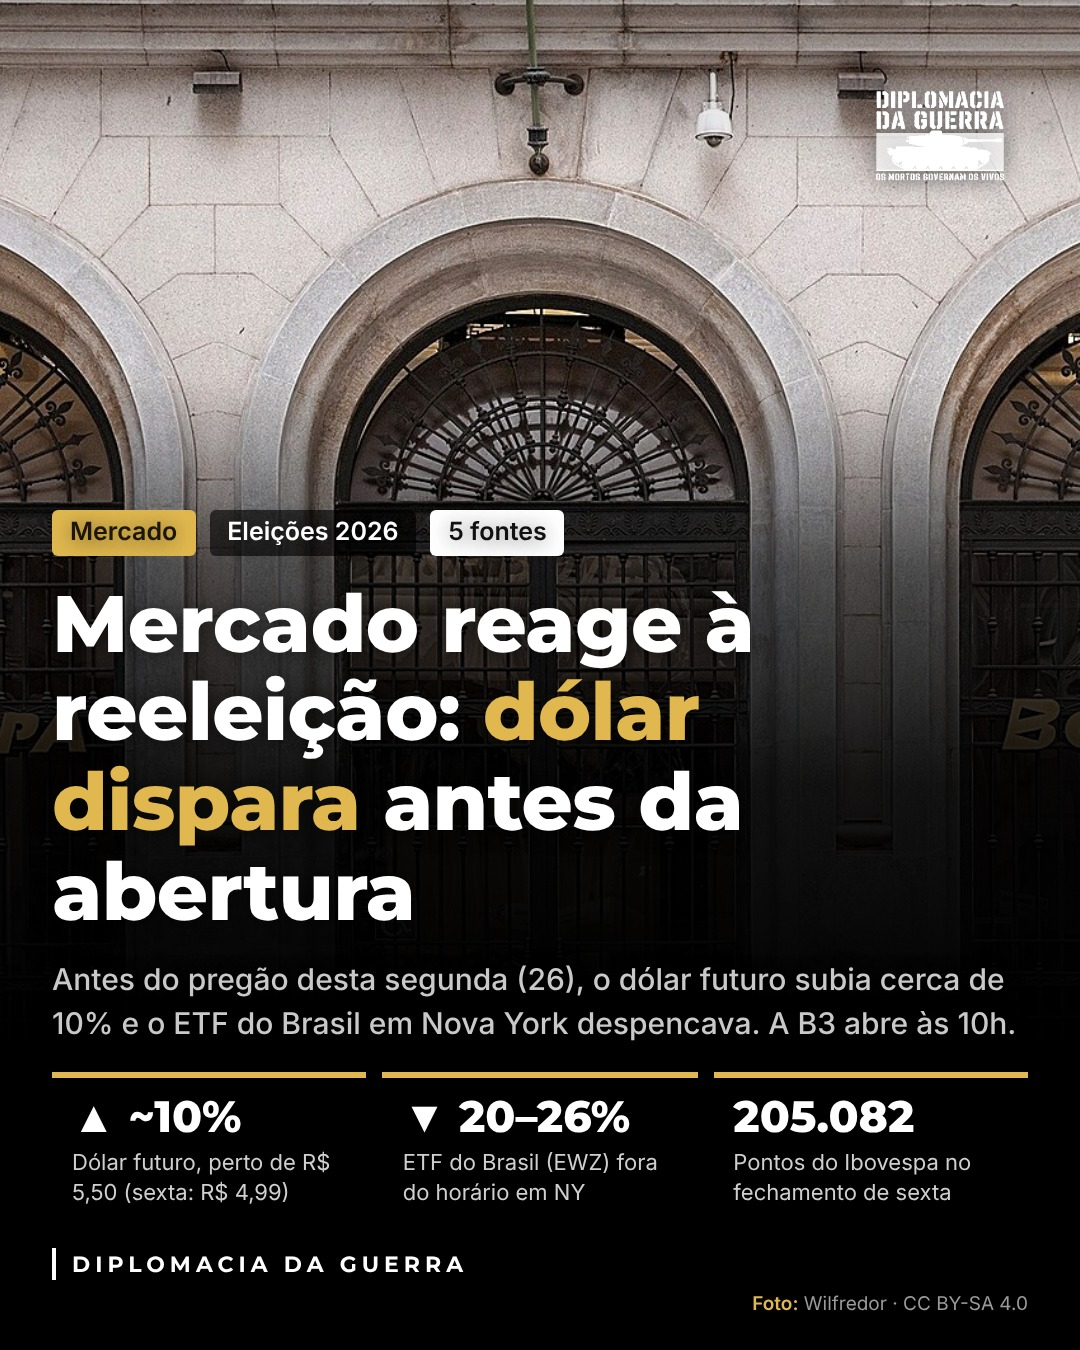
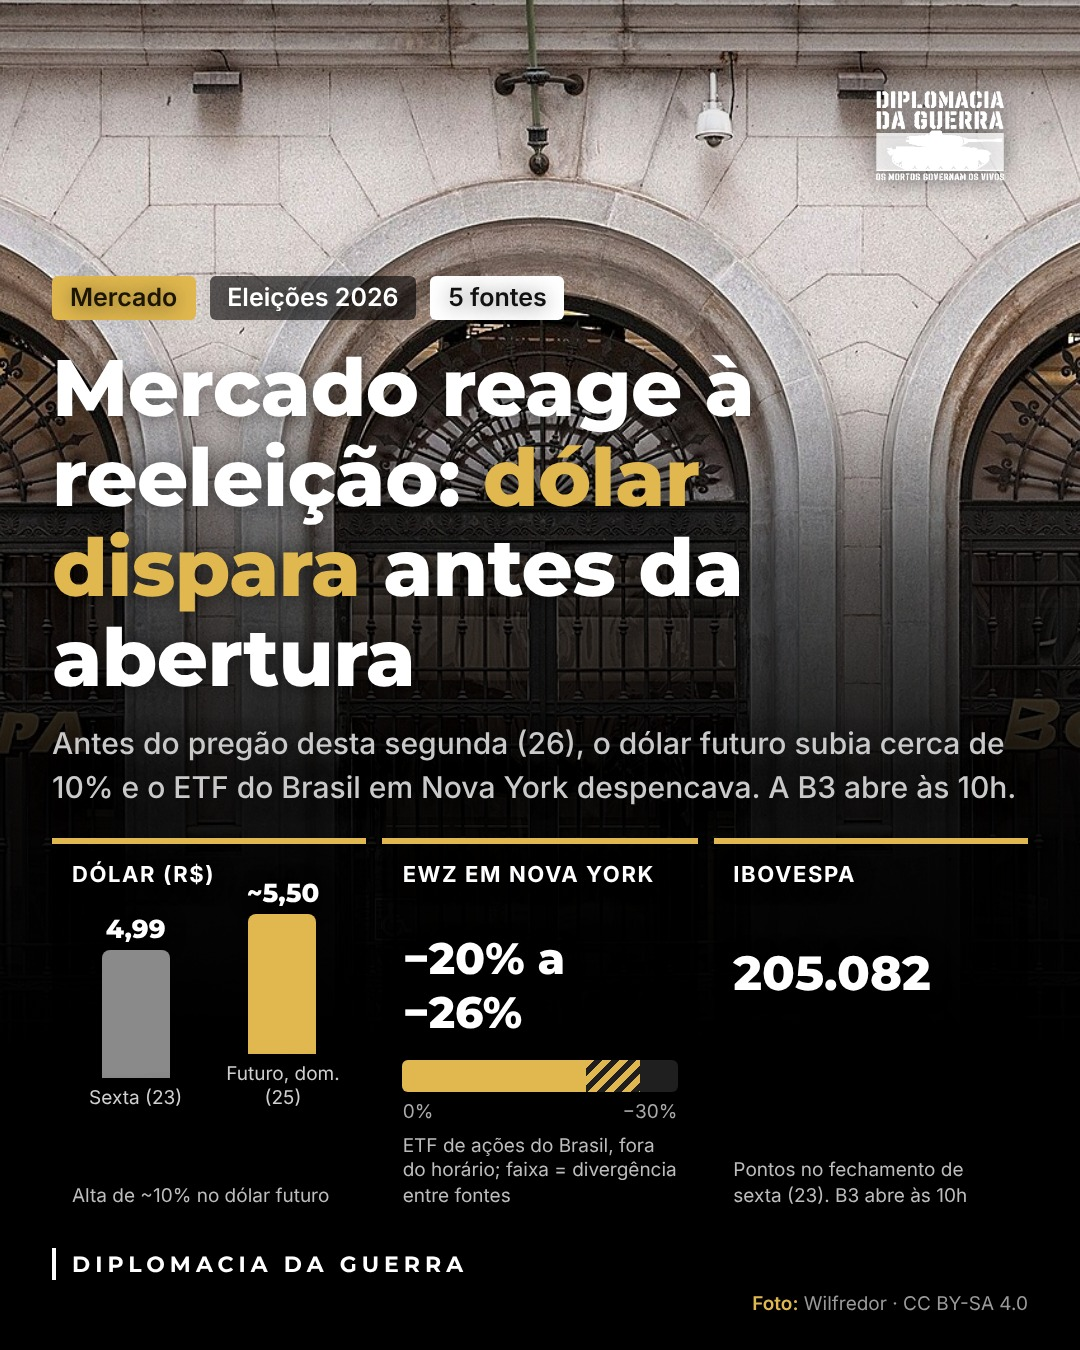
Card do mercado com mini gráficos (dólar, EWZ, Ibovespa) [skip ci]
render.py ganha painel_grafico: barras a partir do zero, faixa de divergência entre fontes e número de referência.

Claude-Session: https://claude.ai/code/session_01QiFKwSdtp12PqLmFudL6sD

Changed region(s): [[0.0306, 0.1867, 0.9472, 0.9022]]

diff --git a/posts/2026-10-26-mercado-reeleicao/carrossel.html b/posts/2026-10-26-mercado-reeleicao/carrossel.html
@@ -65,6 +65,23 @@ body.export .controls{display:none;}
 .ind-v.alta{color:#5fd38a;} .ind-v.baixa{color:#ff6b6b;}
 .ind-r{font-family:'Inter';font-size:11px;line-height:1.3;color:#cfcfcf;margin-top:4px;}
 
+/* Mini gráficos */
+.ind.graf{display:flex;flex-direction:column;padding:8px 10px 8px;}
+.g-tit{font-family:'Inter';font-weight:700;font-size:11px;letter-spacing:.8px;text-transform:uppercase;color:#fff;margin-bottom:6px;}
+.g-barras{display:flex;align-items:flex-end;gap:10px;height:104px;}
+.g-col{flex:1;display:flex;flex-direction:column;align-items:center;justify-content:flex-end;}
+.g-val{font-family:'Montserrat';font-weight:800;font-size:13px;color:#fff;margin-bottom:3px;white-space:nowrap;}
+.g-bar{width:100%;max-width:34px;background:#8a8a8a;border-radius:4px 4px 0 0;}
+.g-bar.dest{background:var(--gold);}
+.g-rot{font-family:'Inter';font-size:9.5px;color:#cfcfcf;margin-top:4px;text-align:center;line-height:1.2;}
+.g-faixa-val{font-family:'Montserrat';font-weight:800;font-size:22px;color:#fff;margin:16px 0 10px;}
+.g-trilho{position:relative;height:16px;background:rgba(255,255,255,.12);border-radius:3px;}
+.g-solido{position:absolute;left:0;top:0;bottom:0;background:var(--gold);border-radius:3px 0 0 3px;}
+.g-incerto{position:absolute;top:0;bottom:0;background:repeating-linear-gradient(135deg,var(--gold) 0 3px,transparent 3px 6px);}
+.g-escala{display:flex;justify-content:space-between;font-family:'Inter';font-size:9.5px;color:#aaa;margin-top:4px;}
+.g-num{font-family:'Montserrat';font-weight:800;font-size:24px;color:#fff;margin:22px 0 4px;}
+.g-nota{font-family:'Inter';font-size:9.5px;line-height:1.3;color:#bdbdbd;margin-top:auto;padding-top:6px;}
+
 /* CTA */
 .cta{background:radial-gradient(circle at 50% 35%,#1f1a0c 0%,#000 70%);}
 .cta .centro{position:absolute;inset:0;display:flex;flex-direction:column;align-items:center;justify-content:center;text-align:center;padding:40px;}
@@ -88,7 +105,7 @@ body.export .controls{display:none;}
       <div class="pills"><span class="pill cat">Mercado</span><span class="pill esc">Eleições 2026</span><span class="pill cla">5 fontes</span></div>
       <h1 class="manchete">Mercado reage à reeleição: <span class="hl2">dólar dispara</span> antes da abertura</h1>
       <p class="linha-fina">Antes do pregão desta segunda (26), o dólar futuro subia cerca de 10% e o ETF do Brasil em Nova York despencava. A B3 abre às 10h.</p>
-      <div class="inds"><div class="ind"><div class="ind-v ">▲ ~10%</div><div class="ind-r">Dólar futuro, perto de R$ 5,50 (sexta: R$ 4,99)</div></div><div class="ind"><div class="ind-v ">▼ 20–26%</div><div class="ind-r">ETF do Brasil (EWZ) fora do horário em NY</div></div><div class="ind"><div class="ind-v ">205.082</div><div class="ind-r">Pontos do Ibovespa no fechamento de sexta</div></div></div>
+      <div class="inds"><div class="ind graf"><div class="g-tit">Dólar (R$)</div><div class="g-barras"><div class="g-col"><div class="g-val">4,99</div><div class="g-bar" style="height:63.5px"></div><div class="g-rot">Sexta (23)</div></div><div class="g-col"><div class="g-val">~5,50</div><div class="g-bar dest" style="height:70.0px"></div><div class="g-rot">Futuro, dom. (25)</div></div></div><div class="g-nota">Alta de ~10% no dólar futuro</div></div><div class="ind graf"><div class="g-tit">EWZ em Nova York</div><div class="g-faixa-val">−20% a −26%</div><div class="g-trilho"><div class="g-solido" style="width:66.7%"></div><div class="g-incerto" style="left:66.7%;width:20.0%"></div></div><div class="g-escala"><span>0%</span><span>−30%</span></div><div class="g-nota">ETF de ações do Brasil, fora do horário; faixa = divergência entre fontes</div></div><div class="ind graf"><div class="g-tit">Ibovespa</div><div class="g-num">205.082</div><div class="g-nota">Pontos no fechamento de sexta (23). B3 abre às 10h</div></div></div>
       <div class="rodape"><span class="marca">Diplomacia da Guerra</span></div>
       <div class="credito" style="max-width:100%;margin-top:6px"><b>Foto:</b> Wilfredor · CC BY-SA 4.0</div>
     </div>

diff --git a/scripts/template_moderno.html b/scripts/template_moderno.html
@@ -65,6 +65,23 @@ body.export .controls{display:none;}
 .ind-v.alta{color:#5fd38a;} .ind-v.baixa{color:#ff6b6b;}
 .ind-r{font-family:'Inter';font-size:11px;line-height:1.3;color:#cfcfcf;margin-top:4px;}
 
+/* Mini gráficos */
+.ind.graf{display:flex;flex-direction:column;padding:8px 10px 8px;}
+.g-tit{font-family:'Inter';font-weight:700;font-size:11px;letter-spacing:.8px;text-transform:uppercase;color:#fff;margin-bottom:6px;}
+.g-barras{display:flex;align-items:flex-end;gap:10px;height:104px;}
+.g-col{flex:1;display:flex;flex-direction:column;align-items:center;justify-content:flex-end;}
+.g-val{font-family:'Montserrat';font-weight:800;font-size:13px;color:#fff;margin-bottom:3px;white-space:nowrap;}
+.g-bar{width:100%;max-width:34px;background:#8a8a8a;border-radius:4px 4px 0 0;}
+.g-bar.dest{background:var(--gold);}
+.g-rot{font-family:'Inter';font-size:9.5px;color:#cfcfcf;margin-top:4px;text-align:center;line-height:1.2;}
+.g-faixa-val{font-family:'Montserrat';font-weight:800;font-size:22px;color:#fff;margin:16px 0 10px;}
+.g-trilho{position:relative;height:16px;background:rgba(255,255,255,.12);border-radius:3px;}
+.g-solido{position:absolute;left:0;top:0;bottom:0;background:var(--gold);border-radius:3px 0 0 3px;}
+.g-incerto{position:absolute;top:0;bottom:0;background:repeating-linear-gradient(135deg,var(--gold) 0 3px,transparent 3px 6px);}
+.g-escala{display:flex;justify-content:space-between;font-family:'Inter';font-size:9.5px;color:#aaa;margin-top:4px;}
+.g-num{font-family:'Montserrat';font-weight:800;font-size:24px;color:#fff;margin:22px 0 4px;}
+.g-nota{font-family:'Inter';font-size:9.5px;line-height:1.3;color:#bdbdbd;margin-top:auto;padding-top:6px;}
+
 /* CTA */
 .cta{background:radial-gradient(circle at 50% 35%,#1f1a0c 0%,#000 70%);}
 .cta .centro{position:absolute;inset:0;display:flex;flex-direction:column;align-items:center;justify-content:center;text-align:center;padding:40px;}

diff --git a/scripts/render.py b/scripts/render.py
@@ -156,6 +156,31 @@ def montar_html(post, post_dir):
             .replace("{{SLIDES}}", "\n".join(html_slides)))
 
 
+def painel_grafico(g):
+    """Mini gráfico estático para o card de notícia (barras partem do zero; sem dados inventados).
+    tipos: "barras" (itens com rotulo/valor/texto, destaque opcional), "faixa" (queda min–max em %),
+    "numero" (valor de referência)."""
+    titulo = f'<div class="g-tit">{escape(g["titulo"])}</div>'
+    nota = f'<div class="g-nota">{escape(g.get("nota", ""))}</div>' if g.get("nota") else ""
+    if g["tipo"] == "barras":
+        maximo = max(i["valor"] for i in g["itens"])
+        barras = "".join(
+            f'<div class="g-col"><div class="g-val">{escape(i["texto"])}</div>'
+            f'<div class="g-bar{" dest" if i.get("destaque") else ""}" style="height:{70 * i["valor"] / maximo:.1f}px"></div>'
+            f'<div class="g-rot">{escape(i["rotulo"])}</div></div>' for i in g["itens"])
+        corpo = f'<div class="g-barras">{barras}</div>'
+    elif g["tipo"] == "faixa":
+        esc = g.get("escala", 30)
+        a, b = g["min"] / esc * 100, g["max"] / esc * 100
+        corpo = (f'<div class="g-faixa-val">{escape(g["texto"])}</div>'
+                 f'<div class="g-trilho"><div class="g-solido" style="width:{a:.1f}%"></div>'
+                 f'<div class="g-incerto" style="left:{a:.1f}%;width:{b - a:.1f}%"></div></div>'
+                 f'<div class="g-escala"><span>0%</span><span>−{esc}%</span></div>')
+    else:
+        corpo = f'<div class="g-num">{escape(g["texto"])}</div>'
+    return f'<div class="ind graf">{titulo}{corpo}{nota}</div>'
+
+
 def montar_moderno(post, post_dir):
     """Layout "moderno" (4:5, 1080x1350): foto em tela cheia, etiquetas acima da
     manchete e texto sobre o degradê — no estilo dos perfis de notícia do Instagram."""
@@ -187,7 +212,9 @@ def montar_moderno(post, post_dir):
     # Notícia de imagem única: só a capa, com quadros de indicadores opcionais.
     so_capa = post.get("formato") == "noticia"
     indicadores = ""
-    if capa.get("indicadores"):
+    if capa.get("graficos"):
+        indicadores = '<div class="inds">' + "".join(painel_grafico(g) for g in capa["graficos"]) + "</div>"
+    elif capa.get("indicadores"):
         indicadores = '<div class="inds">' + "".join(
             f'<div class="ind"><div class="ind-v {escape(i.get("cor", ""))}">{escape(i["valor"])}</div>'
             f'<div class="ind-r">{escape(i["rotulo"])}</div></div>' for i in capa["indicadores"]) + "</div>"
